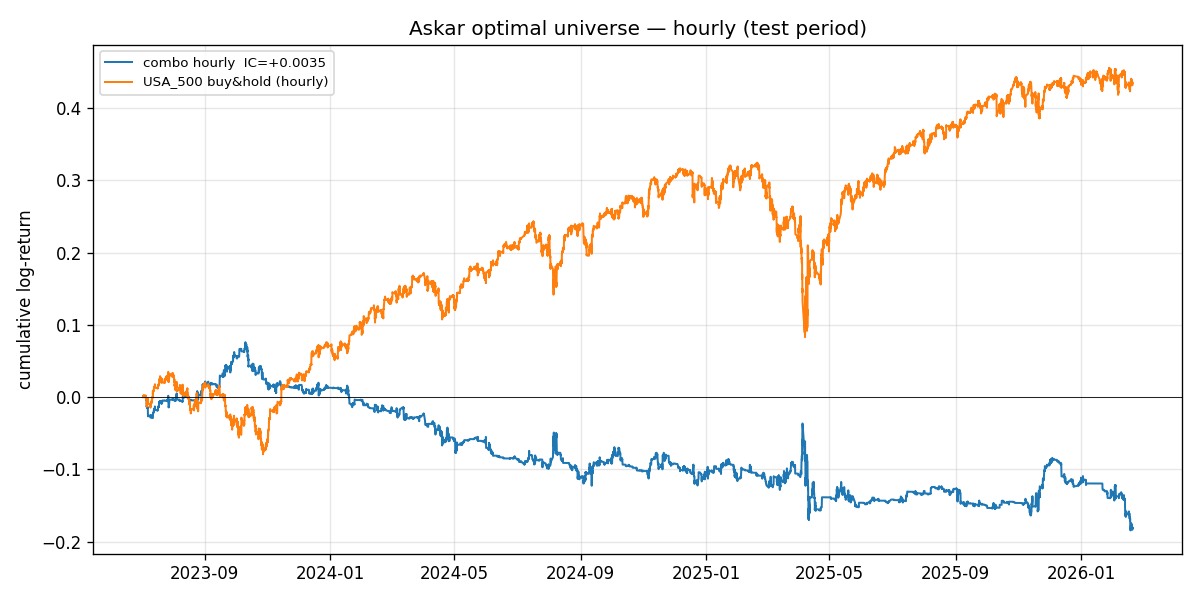
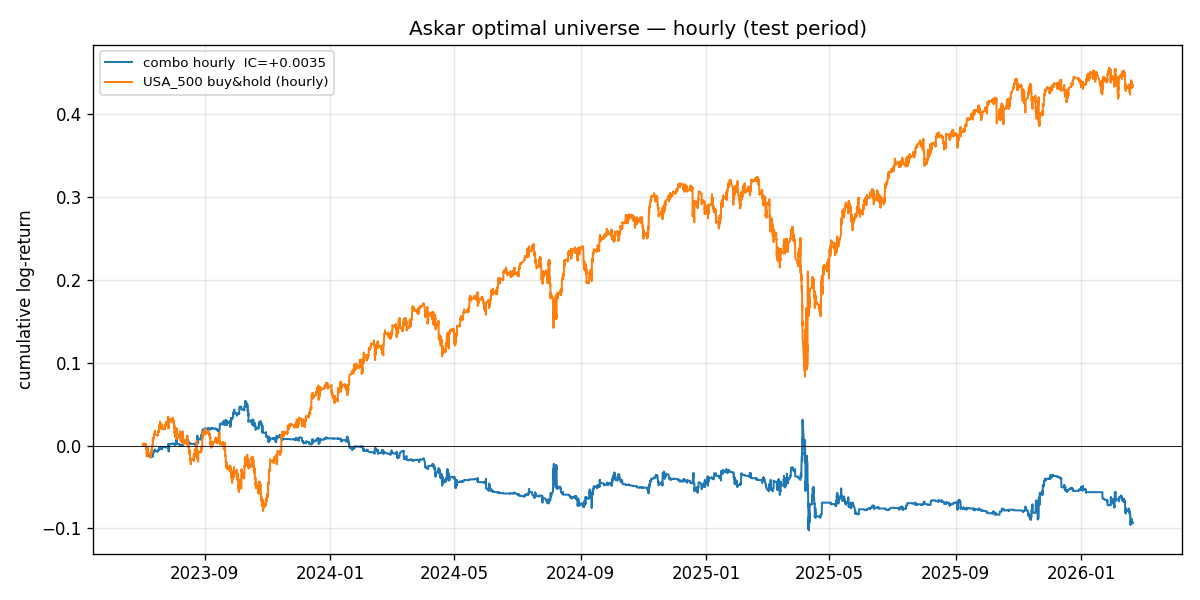
feat(askar/optimal): vol-conditioned position sizing
Adds a regime gate to the Ricci-delta combo. Hypothesis (from the
review): in low-vol/DISPERSED markets cross-asset correlations are
stable and Forman-Ricci has near-zero discriminative power; in
high-vol/TENSION markets correlations shuffle and Ricci activates.
A flat-quintile backtest pays full cost + variance in both regimes
and therefore drags the test Sharpe down, even when the recent folds
(2022+) carry real edge (mean IC ≈ +0.046 across folds 3-5).

Implementation
--------------

    def vol_weight(target_returns, split_date, window=20):
        realised = target_returns.rolling(20).std().shift(1)
        median_train = realised.loc[index < split_date].median()
        return tanh(realised / median_train).fillna(0)

* Window = 20 bars of realised σ on the target asset.
* ``.shift(1)`` so the weight at bar t is fully known before bar t.
* ``median_train`` is a scalar frozen from the training slice — no
  lookahead. The same rule is applied inside ``walkforward_5fold``
  with ``median_train`` frozen from each fold's own training window.
* Final position = expanding_quintile(combo) × vol_weight.
  tanh() is bounded in [0, 1) so positions never exceed the flat
  quintile in magnitude; they only shrink.

Effect on daily backtest (test 2023-07-01 → 2026-02-20)
--------------------------------------------------------

                            flat quintile   vol-conditioned
  IC_test (combo vs fwd)      +0.0407        +0.0407   (unchanged — IC
[…]

diff --git a/research/askar/optimal_universe.py b/research/askar/optimal_universe.py
@@ -261,11 +261,49 @@ def expanding_quintile(combo: pd.Series, min_history: int = 50) -> pd.Series:
     return pos
 
 
+VOL_WINDOW = 20
+
+
+def vol_weight(
+    target_returns: pd.Series,
+    split_date: pd.Timestamp,
+    window: int = VOL_WINDOW,
+) -> pd.Series:
+    """Regime-aware position multiplier ∈ [0, 1].
+
+    The Ricci-delta signal is known to be quiet in low-vol/DISPERSED
+    regimes and active in high-vol/TENSION regimes. We therefore scale
+    every quintile position by a smooth function of realised volatility:
+
+        vol_weight(t) = tanh( realised_vol_20(t) / median_vol_train )
+
+    * Shift by one bar to avoid using the current bar's own return.
+    * `median_vol_train` is a scalar **computed on train only** — this is
+      critical to preserve no-lookahead. The denominator is frozen before
+      the test window begins.
+    * In low-vol (vol ≪ median) → weight → 0, the strategy goes flat and
+      does not bleed cost + variance into the equity curve.
+    * In high-vol (vol ≫ median) → weight → 1, the strategy takes full
+      quintile exposure.
+    """
+    # Use the absolute log-return's rolling std; shift(1) so the weight
+    # at bar t depends only on data up to t-1.
+    realised = target_returns.rolling(window).std().shift(1)
+    train_median = float(realised.loc[realised.index < split_date].median())
+    if not np.isfinite(train_median) or train_median <= 0.0:
+        # Degenerate train slice — fall back to a neutral multiplier.
+        return pd.Series(1.0, index=target_returns.index, dtype=float)
+    weight_arr = np.tanh(realised.to_numpy() / train_median)
+    weight = pd.Series(weight_arr, index=realised.index, dtype=float)
+    return weight.fillna(0.0)
+
+
 def backtest(
     df_sig: pd.DataFrame,
     split_date: pd.Timestamp,
     cost_bps: float,
     bars_per_year: float,
+    vol_condition: bool = True,
 ) -> tuple[dict[str, Any], pd.Series]:
     train_mask = df_sig.index < split_date
     test_mask = df_sig.index >= split_date
@@ -282,7 +320,14 @@ def backtest(
     ic_train = _ic(train["combo"], train["fwd_return"])
     ic_test = _ic(test["combo"], test["fwd_return"])
 
-    pos = expanding_quintile(df_sig["combo"])
+    quintile = expanding_quintile(df_sig["combo"])
+    if vol_condition:
+        w = vol_weight(df_sig["fwd_return"], split_date, VOL_WINDOW)
+        w = w.reindex(df_sig.index).fillna(0.0)
+        pos = quintile * w
+    else:
+        pos = quintile
+
     cost = pos.diff().abs().fillna(0.0) * cost_bps / 10_000.0
     ret = pos.shift(1) * df_sig["fwd_return"] - cost
     ret = ret.fillna(0.0)
@@ -307,6 +352,18 @@ def backtest(
         round(float(sharpe_test / (sharpe_train + 1e-8)), 3) if sharpe_train != 0 else float("nan")
     )
 
+    # Vol-weight diagnostics — mean multiplier on train vs test shows
+    # how much the regime gate actually suppressed positions where Ricci
+    # was supposed to stay silent. With vol_condition off we report 1.0
+    # so downstream consumers can still rely on the key being present.
+    if vol_condition:
+        diag_weight = vol_weight(df_sig["fwd_return"], split_date, VOL_WINDOW)
+        mean_w_train = float(diag_weight[train_mask].mean())
+        mean_w_test = float(diag_weight[test_mask].mean())
+    else:
+        mean_w_train = 1.0
+        mean_w_test = 1.0
+
     block = {
         "IC_train": round(ic_train, 4),
         "IC_test": round(ic_test, 4),
@@ -315,6 +372,9 @@ def backtest(
         "maxdd_test": round(maxdd, 4),
         "crisis_2022": round(crisis_return, 4),
         "overfit_ratio": overfit_ratio,
+        "vol_conditioned": bool(vol_condition),
+        "mean_vol_weight_train": round(mean_w_train, 3),
+        "mean_vol_weight_test": round(mean_w_test, 3),
         "n_train": int(train_mask.sum()),
         "n_test": int(test_mask.sum()),
     }
@@ -366,13 +426,23 @@ def orthogonality(df_sig: pd.DataFrame, target_returns: pd.Series) -> dict[str, 
     }
 
 
-def walkforward_5fold(df_sig: pd.DataFrame, bars_per_year: float) -> list[dict[str, Any]]:
-    """Split combo into 5 expanding-window test blocks and report IC/Sharpe."""
+def walkforward_5fold(
+    df_sig: pd.DataFrame,
+    bars_per_year: float,
+    vol_condition: bool = True,
+) -> list[dict[str, Any]]:
+    """Split combo into 5 expanding-window test blocks and report IC/Sharpe.
+
+    Per-fold positions use the same expanding-quintile rule as the
+    main backtest, and (when ``vol_condition=True``) are multiplied by
+    the same ``tanh(vol / median_train)`` regime gate, with the
+    ``median_train`` frozen from each fold's own training window — no
+    lookahead across folds.
+    """
     n = len(df_sig)
     fold_size = n // (N_WALKFORWARD_FOLDS + 1)
     folds: list[dict[str, Any]] = []
-    pos_full = expanding_quintile(df_sig["combo"])
-    strat_full = (pos_full.shift(1) * df_sig["fwd_return"]).fillna(0.0)
+    quintile = expanding_quintile(df_sig["combo"])
     for k in range(N_WALKFORWARD_FOLDS):
         test_start = fold_size * (k + 1)
         test_end = min(n, fold_size * (k + 2))
@@ -383,6 +453,17 @@ def walkforward_5fold(df_sig: pd.DataFrame, bars_per_year: float) -> list[dict[s
         if mask_te.sum() < 20:
             continue
         ic_te, _ = spearmanr(test.loc[mask_te, "combo"], test.loc[mask_te, "fwd_return"])
+        fold_split = df_sig.index[test_start]
+        if vol_condition:
+            w = vol_weight(df_sig["fwd_return"], fold_split, VOL_WINDOW)
+            fold_pos = quintile * w.reindex(df_sig.index).fillna(0.0)
+            fold_mean_w_test = float(
+                w.iloc[test_start:test_end].mean() if test_end > test_start else 0.0
+            )
+        else:
+            fold_pos = quintile
+            fold_mean_w_test = 1.0
+        strat_full = (fold_pos.shift(1) * df_sig["fwd_return"]).fillna(0.0)
         test_ret = strat_full.iloc[test_start:test_end]
         sharpe_val = (
             float(test_ret.mean() / (test_ret.std() + 1e-8) * np.sqrt(bars_per_year))
@@ -396,6 +477,7 @@ def walkforward_5fold(df_sig: pd.DataFrame, bars_per_year: float) -> list[dict[s
                 "test_end": str(test.index[-1]),
                 "IC": round(float(ic_te), 4),
                 "sharpe": round(sharpe_val, 3),
+                "mean_vol_weight": round(fold_mean_w_test, 3),
                 "n_test": int(test_end - test_start),
             }
         )
